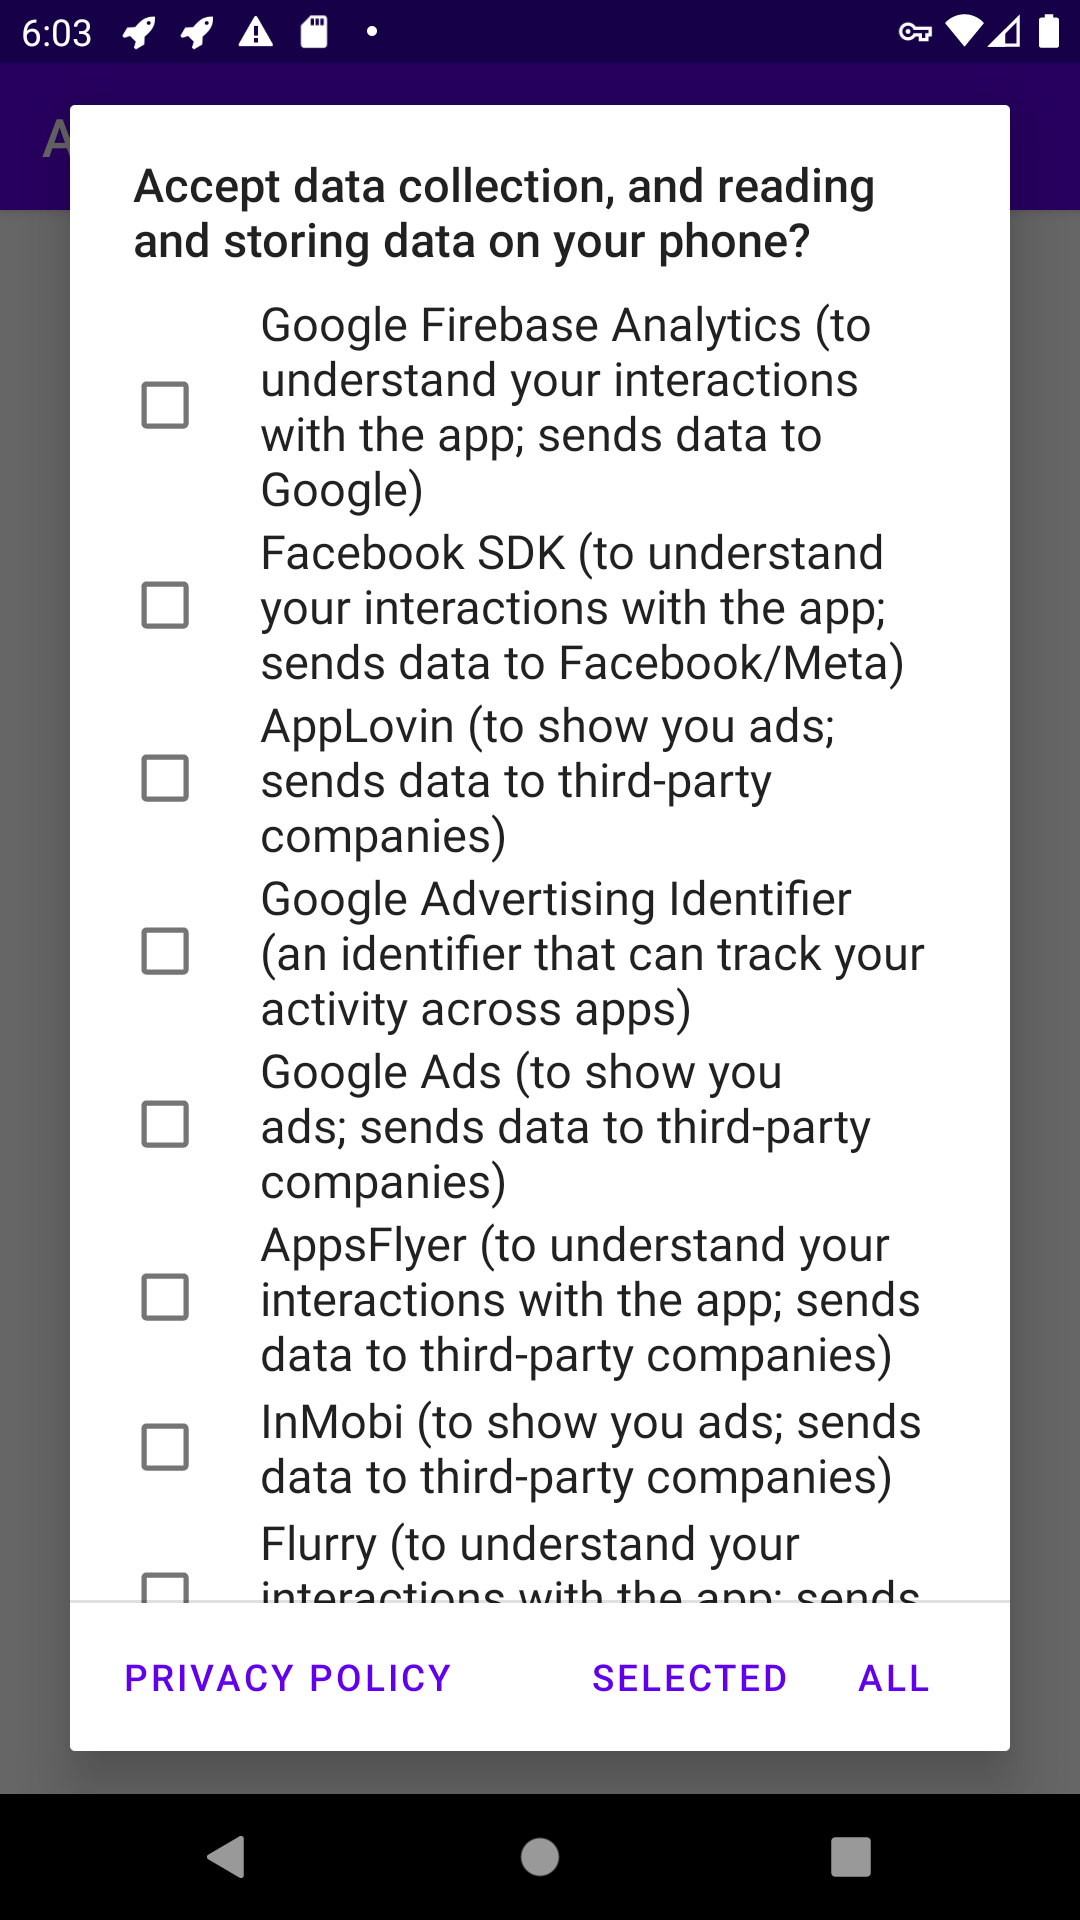
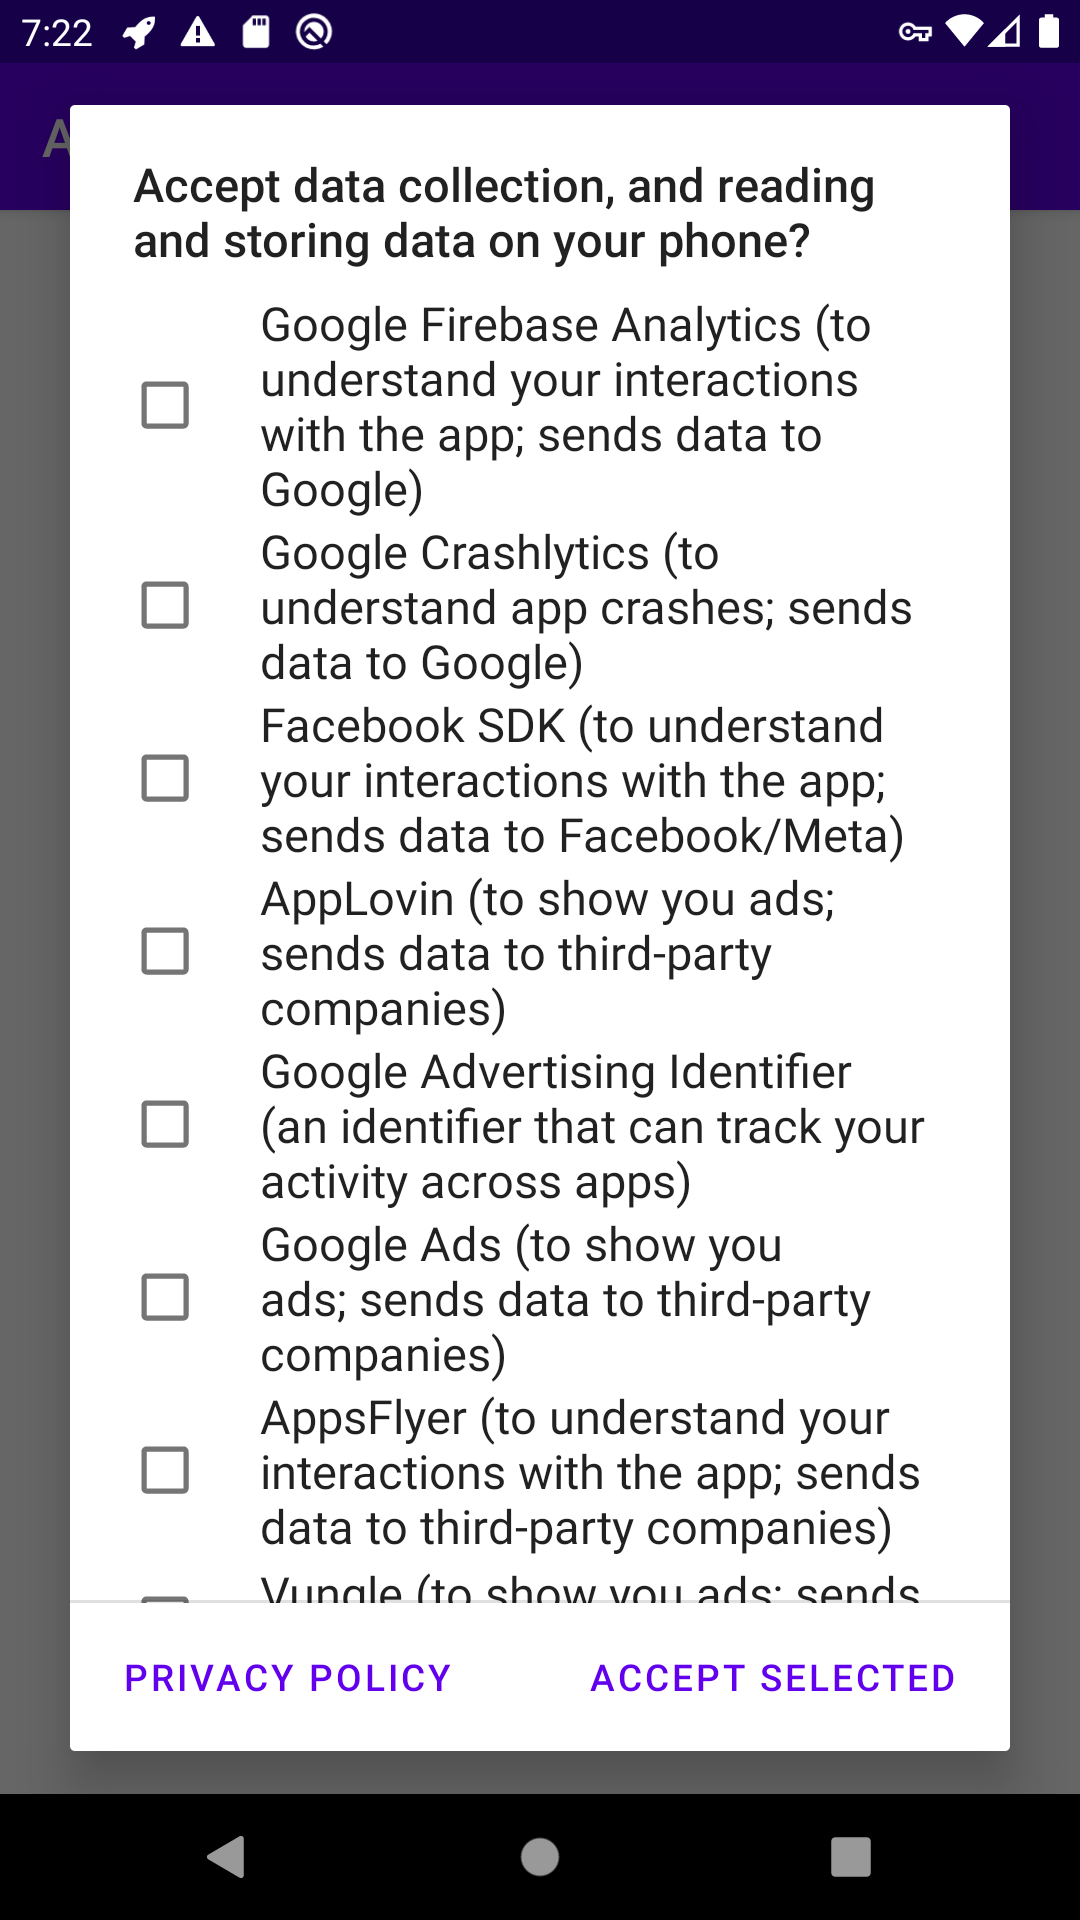
Improve consent flow

diff --git a/library/src/main/java/net/kollnig/consent/ConsentManager.java b/library/src/main/java/net/kollnig/consent/ConsentManager.java
@@ -168,6 +168,7 @@ public class ConsentManager {
     public void askConsent() {
         List<String> ids = new LinkedList<>();
         List<String> names = new LinkedList<>();
+        List<String> selectedItems = new LinkedList<>();
 
         for (Library library : libraries) {
             if (library.isPresent()) {
@@ -182,21 +183,10 @@ public class ConsentManager {
         if (ids.size() == 0)
             return;
 
-        List<String> selectedItems = new LinkedList<>();
         final AlertDialog alertDialog = new AlertDialog.Builder(context)
                 .setTitle(R.string.consent_title)
-                .setPositiveButton(R.string.accept_all, (dialog, which) -> {
-                    for (Library library: libraries) {
-                        String libraryId = library.getId();
-
-                        if (!ids.contains(libraryId))
-                            continue;
-
-                        saveConsent(libraryId, true);
-                    }
-                })
-                .setNegativeButton(R.string.accept_selected, (dialog, which) -> {
-                    for (Library library: libraries) {
+                .setPositiveButton(R.string.accept_selected, (dialog, which) -> {
+                    for (Library library : libraries) {
                         String libraryId = library.getId();
 
                         if (!ids.contains(libraryId))
@@ -205,6 +195,16 @@ public class ConsentManager {
                         saveConsent(libraryId, selectedItems.contains(libraryId));
                     }
                 })
+                /*.setNegativeButton(R.string.no, (dialog, which) -> {
+                    for (Library library: libraries) {
+                        String libraryId = library.getId();
+
+                        if (!ids.contains(libraryId))
+                            continue;
+
+                        saveConsent(libraryId, false);
+                    }
+                })*/
                 .setMultiChoiceItems(names.toArray(new String[0]), null, (dialog, i, isChecked) -> {
                     if (isChecked) selectedItems.add(ids.get(i));
                     else selectedItems.remove(ids.get(i));

diff --git a/README.md b/README.md
@@ -54,7 +54,7 @@ allprojects {
 2. Add the library:
 ```gradle
 dependencies {
-        implementation 'com.github.kasnder:app-consent-android:0.7'
+        implementation 'com.github.kasnder:app-consent-android:0.8'
 }
 ```
 3. Initialise the library by calling
